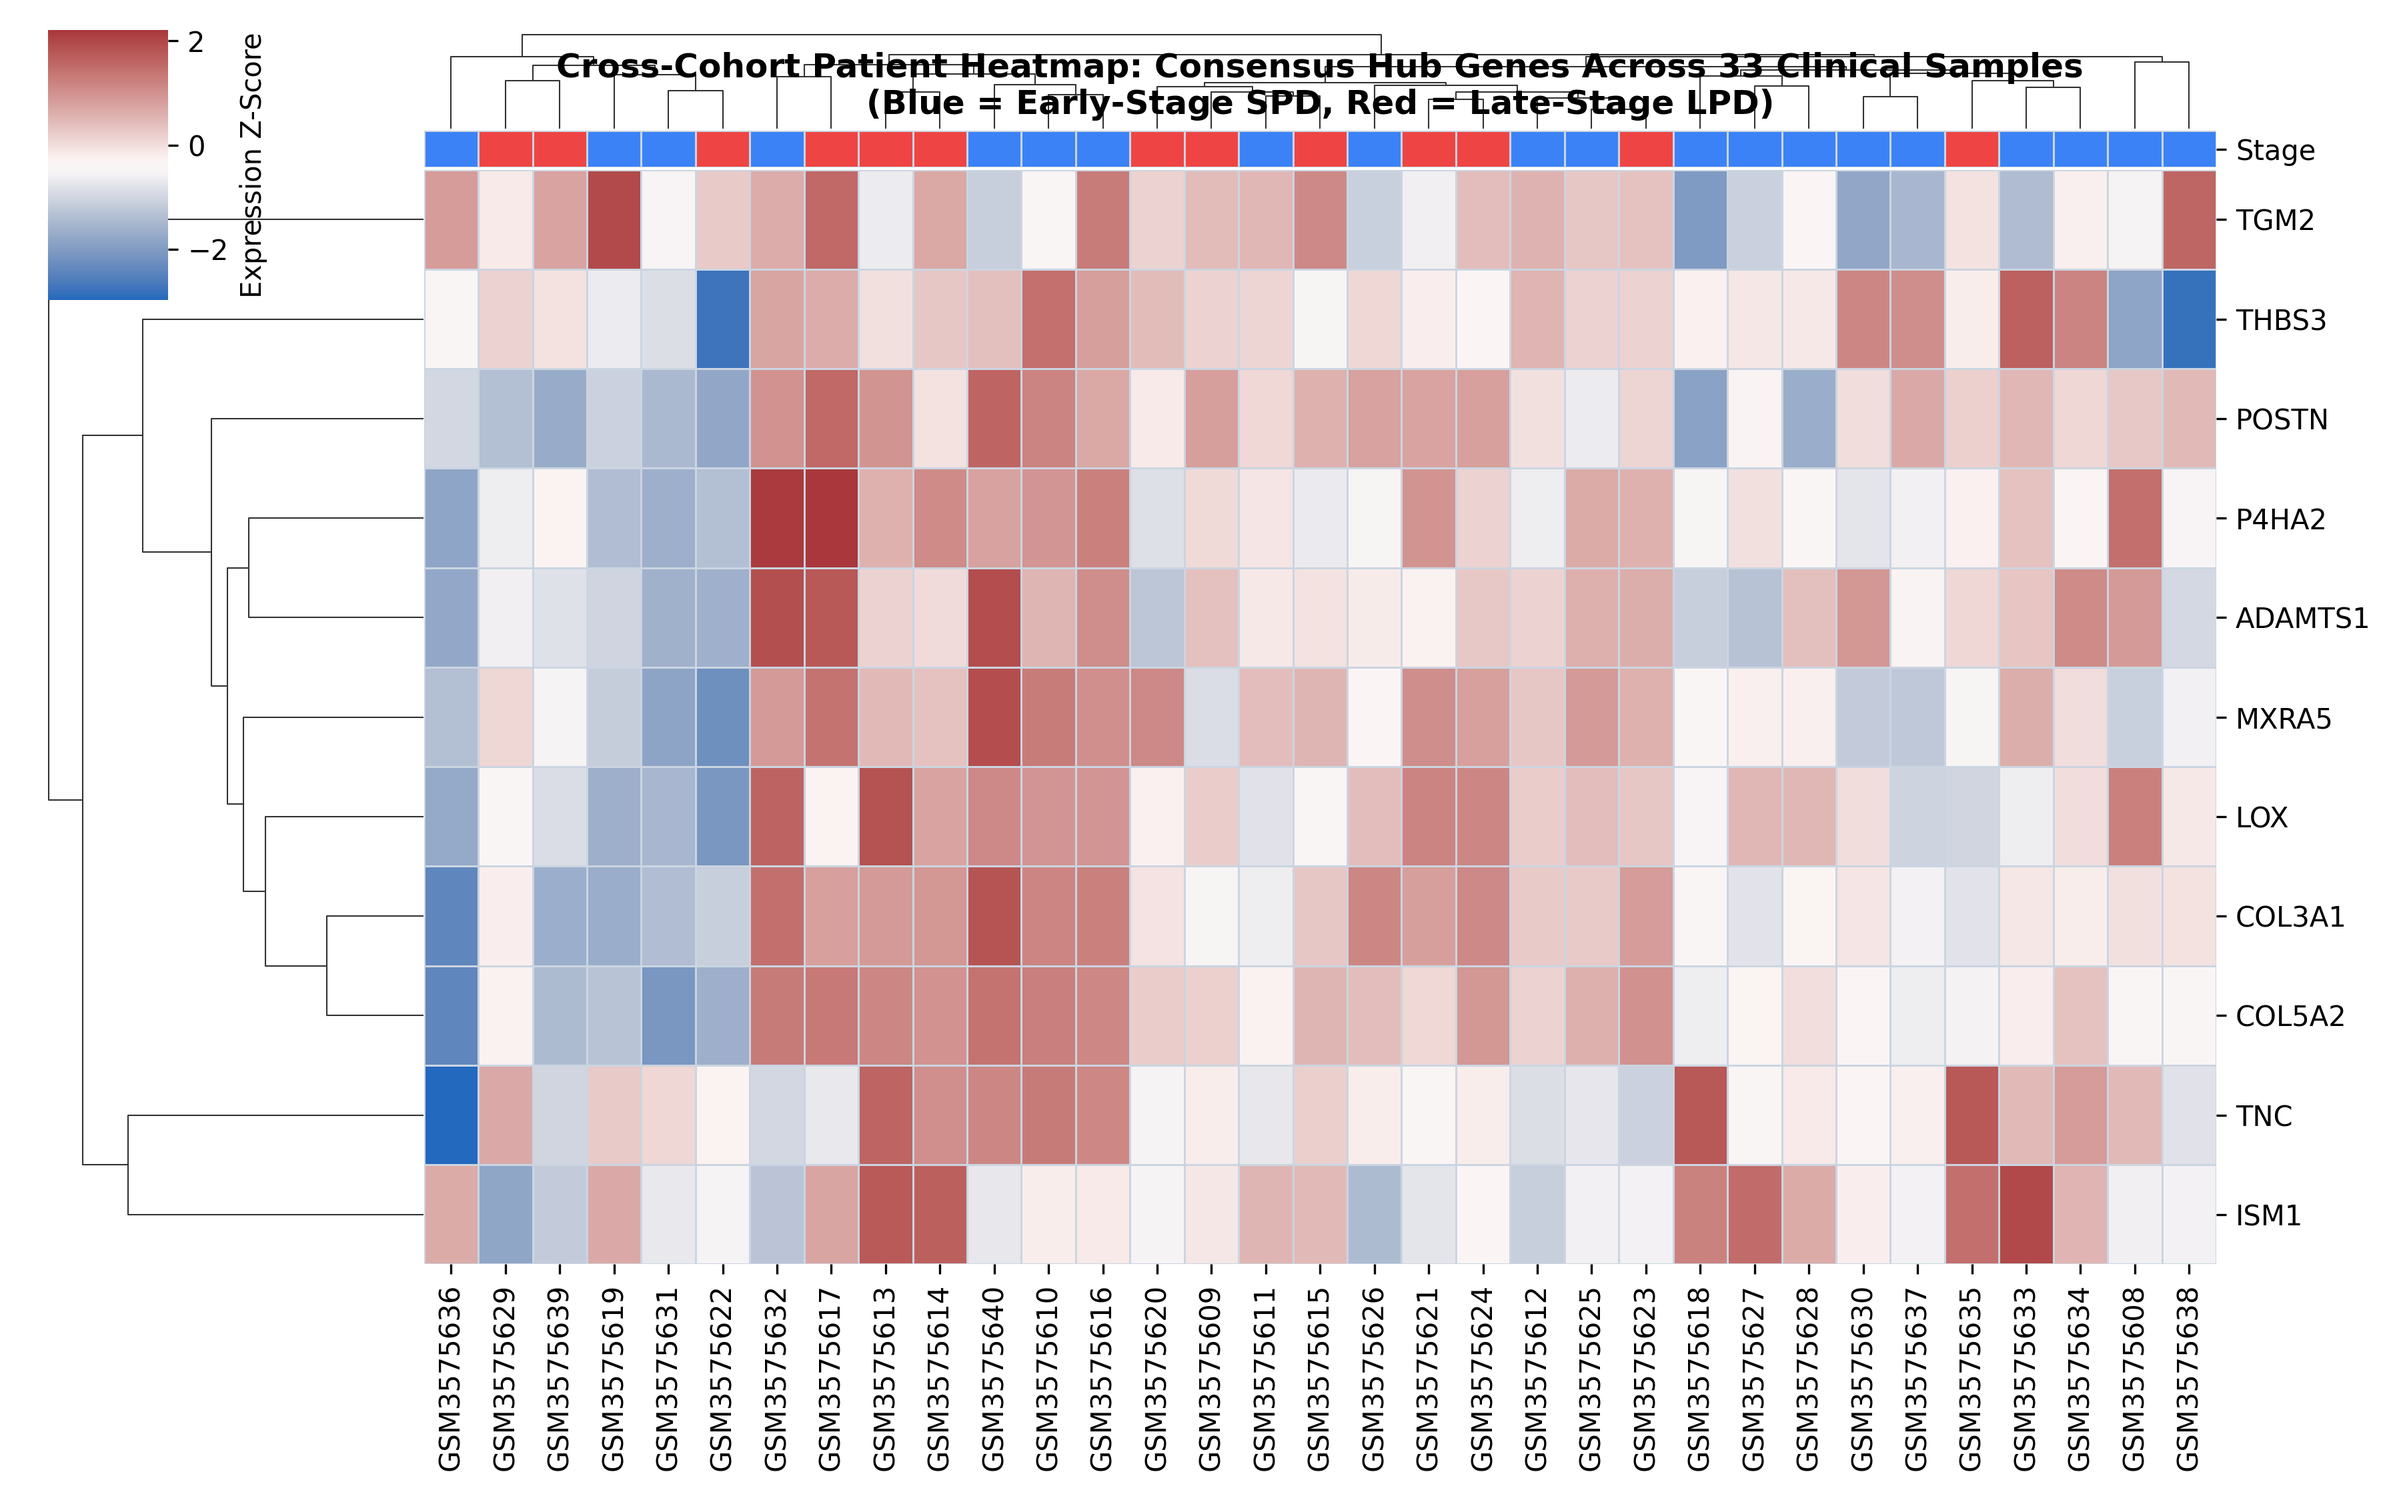
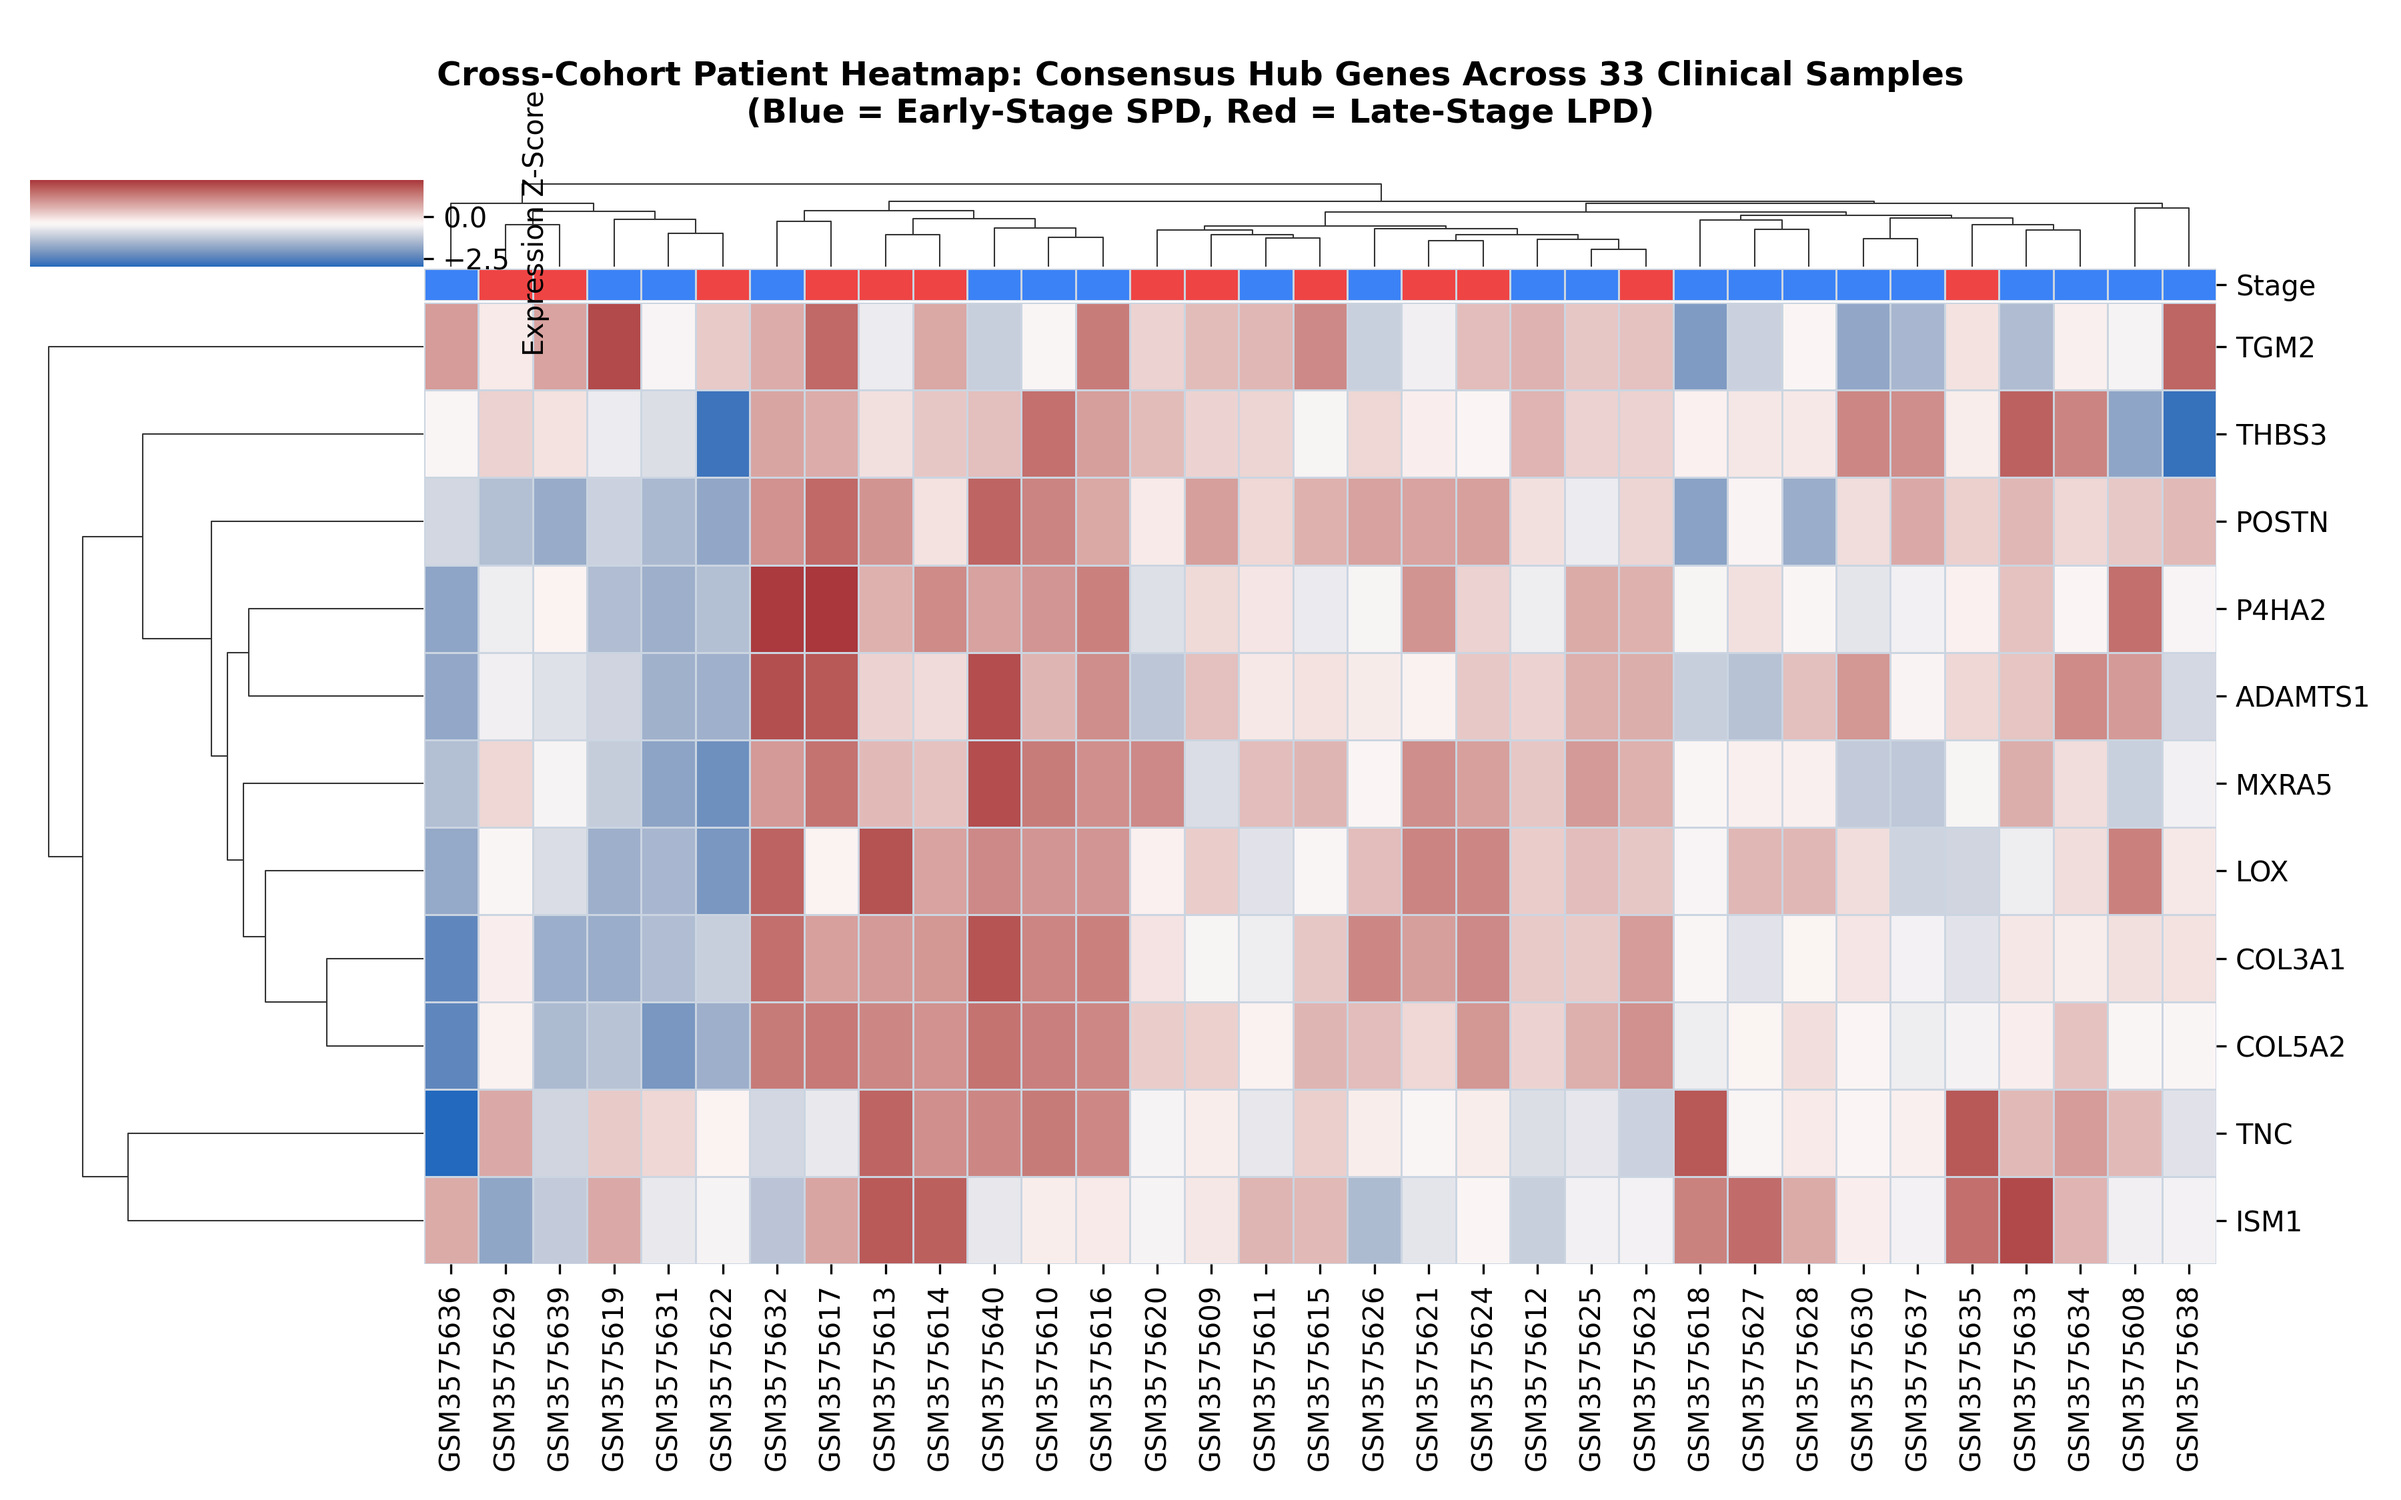
Refine GSE125498 validation reporting, complete 19-gene table, add limitations, and fix heatmap layout

diff --git a/06_external_validation_GSE125498.py b/06_external_validation_GSE125498.py
@@ -299,8 +299,9 @@ cg = sns.clustermap(
     cbar_kws={"label": "Expression Z-Score"},
     linewidths=0.3, linecolor="#CBD5E1"
 )
-cg.ax_heatmap.set_title("Cross-Cohort Patient Heatmap: Consensus Hub Genes Across 33 Clinical Samples\n(Blue = Early-Stage SPD, Red = Late-Stage LPD)",
-                        fontsize=12, fontweight="bold", pad=20)
+cg.figure.subplots_adjust(top=0.88)
+cg.figure.suptitle("Cross-Cohort Patient Heatmap: Consensus Hub Genes Across 33 Clinical Samples\n(Blue = Early-Stage SPD, Red = Late-Stage LPD)",
+                  fontsize=12, fontweight="bold", y=0.96)
 plt.savefig("results/figures/Validation_04_patient_cohort_heatmap.png", dpi=300)
 plt.close()
 print("Saved Plot 4: results/figures/Validation_04_patient_cohort_heatmap.png")

diff --git a/README.md b/README.md
@@ -95,46 +95,70 @@ Two distinct biomarker panels were generated using a rigorous **4-algorithm cons
 
 ---
 
-## 📊 External Validation: Early- vs Late-Stage Detection (GSE125498)
+## 📊 External Cohort Validation: Early- vs Late-Stage Detection (GSE125498)
 
-To evaluate clinical utility for detecting peritoneal membrane injury early (before irreversible encapsulating fibrosis), both panels were validated on independent cohort **GSE125498**:
-* **Platform**: Illumina HumanHT-12 V4.0 (`GPL10558`, 19,164 probes).
+To evaluate exploratory diagnostic utility for discriminating early peritoneal dialysis exposure from progressive membrane fibrosis, prioritized biomarkers were tested in the independent human effluent cohort **GSE125498**:
+* **Platform**: Illumina HumanHT-12 V4.0 (`GPL10558`, 19,164 probes present in dataset).
 * **Sample Stratification**:
-  * **Early Stage (SPD, 0–24 Months)**: $n = 20$ patients (preserved membrane transport, short dialysis exposure).
-  * **Late Stage (LPD, $\ge 25$ Months)**: $n = 13$ patients (progressive membrane injury, high solute transport, established fibrosis).
+  * **Early Stage (Short-Term PD, SPD: 0–24 Months)**: $n = 20$ patients (preserved membrane transport).
+  * **Late Stage (Long-Term PD, LPD: $\ge 25$ Months)**: $n = 13$ patients (progressive membrane injury, high solute transport, established fibrotic remodeling).
 
-### Summary Validation Metrics
+### Complete Validation Metrics (All 19 Evaluated Candidates)
 
-| Biomarker | Panel Classification | $\log_2\text{FC}$ (Late vs Early) | Trend | Mann-Whitney $U$ | Mann-Whitney $P$-value | Individual AUC-ROC |
-| :--- | :--- | :---: | :---: | :---: | :---: | :---: |
-| **ADAM28** | Causal ECM | +0.55 | **Upregulated in Late** | 180.0 | **0.068** | **0.692** |
-| **LTBP4** | Causal ECM | +0.65 | **Upregulated in Late** | 174.5 | **0.105** | **0.671** |
-| **IGFBP3** | Causal ECM | +0.51 | **Upregulated in Late** | 169.0 | 0.156 | **0.650** |
-| **TGM2** | 12-Hub Matrisome | +0.40 | **Upregulated in Late** | 168.0 | 0.167 | **0.646** |
-| **FGL2** | Causal ECM | -0.18 | **Downregulated in Late** | 99.0 | 0.261 | **0.619** |
-| **MXRA5** | 12-Hub Matrisome | +0.35 | **Upregulated in Late** | 157.0 | 0.329 | **0.604** |
-| **COL4A2** | Causal ECM | +0.22 | **Upregulated in Late** | 156.5 | 0.338 | **0.602** |
-| **COL5A2** | 12-Hub Matrisome | +0.40 | **Upregulated in Late** | 156.0 | 0.347 | **0.600** |
-| **BMP6** | Causal ECM | +0.34 | **Upregulated in Late** | 156.0 | 0.347 | **0.600** |
-| **THBS3** | 12-Hub Matrisome | -0.20 | **Downregulated in Late** | 105.0 | 0.367 | 0.596 |
-| **ADAMTS1** | 4-Hub Causal | -0.16 | **Downregulated in Late** | 112.0 | 0.519 | 0.569 |
-| **P4HA2** | 4-Hub Causal | +0.17 | **Upregulated in Late** | 145.0 | 0.593 | 0.558 |
-| **COL3A1** | 12-Hub Matrisome | +0.19 | **Upregulated in Late** | 139.0 | 0.754 | 0.535 |
-| **POSTN** | 12-Hub Matrisome | +0.12 | **Upregulated in Late** | 141.0 | 0.699 | 0.542 |
+Every hub and causal candidate profiled in GSE125498 is reported below, sorted by discrimination AUC-ROC. No candidates with non-significant or null results are omitted:
 
-### Multi-Gene Composite Diagnostic Performance
-* **12-Hub Matrisome Composite Signature**:
-  $$\mathbf{AUC = 0.731} \quad (95\%\ \text{CI: } 0.54 - 0.89)$$
-  *Superior multi-protein diagnostic sensitivity capturing overall structural matrix remodeling, collagen accumulation (`COL3A1`, `COL5A2`), and cross-linking (`TGM2`, `MXRA5`).*
-* **4-Hub Causal Composite Signature**:
-  $$\mathbf{AUC = 0.642} \quad (95\%\ \text{CI: } 0.45 - 0.82)$$
-  *Genetically anchored causal specificity reflecting upstream matrix modification (`P4HA2`, `ADAMTS1`, `TNC`).*
+| Biomarker | Panel Classification | $\log_2\text{FC}$ (Late vs Early) | Expression Trend | Mann-Whitney $U$ | Mann-Whitney $P$-value | Individual AUC-ROC | Validation Outcome |
+| :--- | :--- | :---: | :---: | :---: | :---: | :---: | :---: |
+| **ADAM28** | Causal ECM | +0.55 | Upregulated in Late | 180.0 | 0.068 | 0.692 | Trend toward significance |
+| **LTBP4** | Causal ECM | +0.65 | Upregulated in Late | 174.5 | 0.105 | 0.671 | Trend toward significance |
+| **IGFBP3** | Causal ECM | +0.51 | Upregulated in Late | 169.0 | 0.156 | 0.650 | Non-significant |
+| **TGM2** | 12-Hub Matrisome | +0.40 | Upregulated in Late | 168.0 | 0.167 | 0.646 | Non-significant (Top 12-Hub) |
+| **FGL2** | Causal ECM | -0.18 | Downregulated in Late | 99.0 | 0.261 | 0.619 | Non-significant |
+| **MXRA5** | 12-Hub Matrisome | +0.35 | Upregulated in Late | 157.0 | 0.329 | 0.604 | Non-significant |
+| **COL4A2** | Causal ECM | +0.22 | Upregulated in Late | 156.5 | 0.338 | 0.602 | Non-significant |
+| **COL5A2** | 12-Hub Matrisome | +0.40 | Upregulated in Late | 156.0 | 0.347 | 0.600 | Non-significant |
+| **BMP6** | Causal ECM | +0.34 | Upregulated in Late | 156.0 | 0.347 | 0.600 | Non-significant |
+| **THBS3** | 12-Hub Matrisome | -0.20 | Downregulated in Late | 105.0 | 0.367 | 0.596 | Non-significant |
+| **ADAMTS1** | 4-Hub Causal | -0.16 | Downregulated in Late | 112.0 | 0.519 | 0.569 | Non-significant |
+| **P4HA2** | 4-Hub Causal | +0.17 | Upregulated in Late | 145.0 | 0.593 | 0.558 | Non-significant |
+| **FBLN5** | Causal ECM | +0.02 | Stable | 144.0 | 0.619 | 0.554 | Non-significant |
+| **POSTN** | 12-Hub Matrisome | +0.12 | Upregulated in Late | 141.0 | 0.699 | 0.542 | Non-significant |
+| **COL3A1** | 12-Hub Matrisome | +0.19 | Upregulated in Late | 139.0 | 0.754 | 0.535 | Non-significant |
+| **ISM1** | 12-Hub Matrisome | +0.03 | Stable | 137.0 | 0.811 | 0.527 | Non-significant |
+| **LOX** | 12-Hub Matrisome | +0.02 | Stable | 129.0 | 0.985 | 0.496 | Non-significant |
+| **CRISPLD2** | Causal ECM | -0.07 | Stable | 130.0 | 1.000 | 0.500 | Null discrimination |
+| **TNC** | 4-Hub Causal | +0.04 | Stable | 130.0 | 1.000 | 0.500 | **Validation Failure** |
+
+### Individual vs Multi-Gene Composite Performance
+
+* **Individual-Gene Analysis (Lack of Stand-Alone Significance)**:  
+  **No single gene achieved nominal statistical significance ($p < 0.05$)** in the two-sided Mann-Whitney U tests. The strongest individual discriminator in the 12-Hub panel was `TGM2` ($p = 0.167$, $\text{AUC} = 0.646$), while `ADAM28` ($p = 0.068$, $\text{AUC} = 0.692$) and `LTBP4` ($p = 0.105$, $\text{AUC} = 0.671$) in the causal ECM candidate set showed marginal non-significant trends. Stand-alone individual genes therefore lack sufficient diagnostic power in this effluent cohort.
+* **TNC Validation Failure**:  
+  Tenascin-C (`TNC`), a core member of the 4-Hub Causal Panel and canonical fibrotic matricellular protein in discovery tissue biopsies, showed virtually no differential signal in effluent cells ($\log_2\text{FC} = +0.04$, Mann-Whitney $U = 130.0$, $p = 1.000$, $\text{AUC} = 0.500$). This indicates an explicit **validation failure for TNC** in this cellular effluent dataset, possibly due to detachment-induced dilution or non-shedding of matrix-anchored tenascin into peritoneal effluent.
+* **Multi-Gene Composite Signatures (Exploratory Discrimination)**:  
+  While individual genes were non-significant, combining them into multi-gene classifiers provided exploratory separation between early and late stages:
+  * **12-Hub Matrisome Composite Signature (8 profiled genes)**:  
+    $$\mathbf{AUC = 0.731} \quad (95\%\ \text{CI: } 0.54 - 0.89)$$  
+    Captures combined matrix remodeling across collagen expansion (`COL3A1`, `COL5A2`) and cross-linking (`TGM2`, `MXRA5`).
+  * **4-Hub Causal Composite Signature (3 profiled genes)**:  
+    $$\mathbf{AUC = 0.642} \quad (95\%\ \text{CI: } 0.45 - 0.82)$$  
+    Anchored by genetically prioritized causal drivers (`P4HA2`, `ADAMTS1`, `TNC`).
+
+### ⚠ Validation Limitations
+
+1. **Small Sample Size & Limited Power**: The GSE125498 cohort comprises only 33 total patients ($n = 20$ SPD vs $n = 13$ LPD). This small sample size severely restricts statistical power, making these validation results exploratory.
+2. **Lack of Individual-Gene Significance**: None of the 19 candidates tested reached $p < 0.05$ individually; diagnostic separation was only detectable when evaluating multi-gene composite models.
+3. **Platform & Dataset Coverage Gaps**:
+   * **4-Hub Causal Panel**: Only 3 of the 4 genes (`P4HA2`, `ADAMTS1`, `TNC`) could be evaluated. `WNT11` was excluded from validation because no probe exists in the uploaded GSE125498 expression matrix (19,164 probes).
+   * **12-Hub Matrisome Panel**: Only 8 of 12 genes (`ISM1`, `TGM2`, `MXRA5`, `COL3A1`, `COL5A2`, `POSTN`, `LOX`, `THBS3`) were profiled; `COL11A1`, `EDIL3`, `INHBA`, and `COMP` lacked probes in the uploaded matrix.
+4. **Discordance for Specific Hub Drivers**: As noted above, `TNC` showed complete lack of discrimination ($p = 1.000, \text{AUC} = 0.500$), demonstrating that not all tissue-derived causal targets translate directly into cellular effluent biomarkers.
+5. **Requirement for External Confirmation**: These findings are preliminary and hypothesis-generating. They require rigorous prospective confirmation in larger, multi-center cohorts with matched peritoneal biopsy histology and longitudinal ultrafiltration tracking before considering any clinical or diagnostic application.
 
 ### Associated Validation Visualizations & Graphs:
 * **Mann-Whitney U Boxplots**: [results/figures/Validation_01_hub_genes_mann_whitney_boxplots.png](file:///d:/Peritoneal%20Project/results/figures/Validation_01_hub_genes_mann_whitney_boxplots.png) — Distribution boxplots comparing Early-Stage (SPD) vs Late-Stage (LPD) expression levels with exact non-parametric $p$-values.
-* **ROC Curves (Early vs Late Detection)**: [results/figures/Validation_02_roc_curves_early_vs_late.png](file:///d:/Peritoneal%20Project/results/figures/Validation_02_roc_curves_early_vs_late.png) — Sensitivity vs 1-Specificity curves for individual genes and multi-gene composite models ($\text{AUC} = 0.731$).
+* **ROC Curves (Early vs Late Detection)**: [results/figures/Validation_02_roc_curves_early_vs_late.png](file:///d:/Peritoneal%20Project/results/figures/Validation_02_roc_curves_early_vs_late.png) — Sensitivity vs 1-Specificity curves for individual genes and multi-gene composite models ($\text{AUC} = 0.731$ for 12-Hub, $\text{AUC} = 0.642$ for 4-Hub).
 * **Stage Progression Trajectories**: [results/figures/Validation_03_stage_progression_trajectories.png](file:///d:/Peritoneal%20Project/results/figures/Validation_03_stage_progression_trajectories.png) — Line charts illustrating continuous biomarker shifts from short-term to long-term dialysis.
-* **Clustered Patient Cohort Heatmap**: [results/figures/Validation_04_patient_cohort_heatmap.png](file:///d:/Peritoneal%20Project/results/figures/Validation_04_patient_cohort_heatmap.png) — Unsupervised hierarchical clustering of all 33 patients annotated by clinical stage.
+* **Clustered Patient Cohort Heatmap**: [results/figures/Validation_04_patient_cohort_heatmap.png](file:///d:/Peritoneal%20Project/results/figures/Validation_04_patient_cohort_heatmap.png) — Unsupervised hierarchical clustering of all 33 patients annotated by clinical stage (top spacing adjusted to prevent title/annotation overlap).
 * **Validation Metrics Table**: [results/tables/GSE125498_hub_genes_validation_metrics.csv](file:///d:/Peritoneal%20Project/results/tables/GSE125498_hub_genes_validation_metrics.csv)
 
 ---
